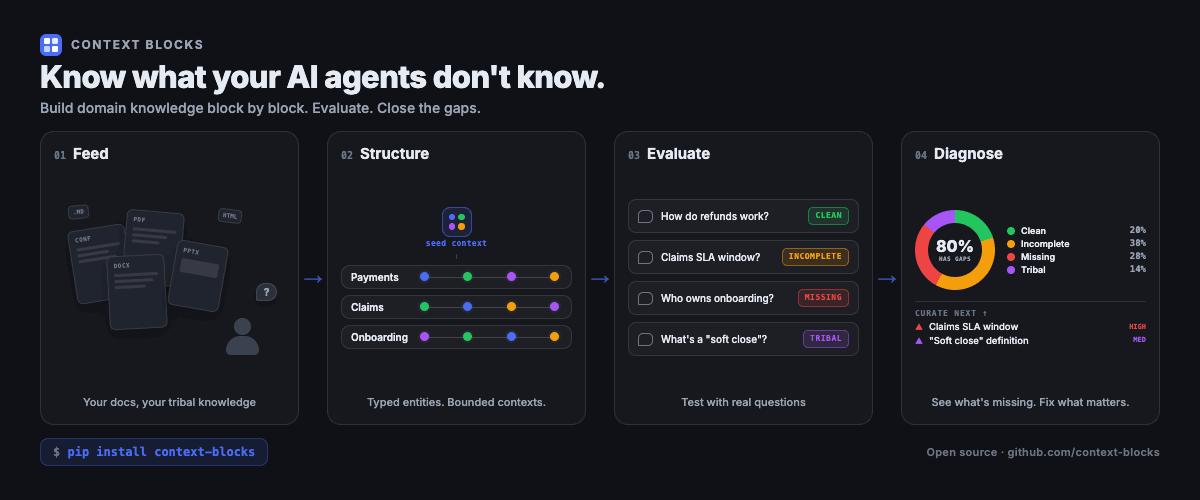
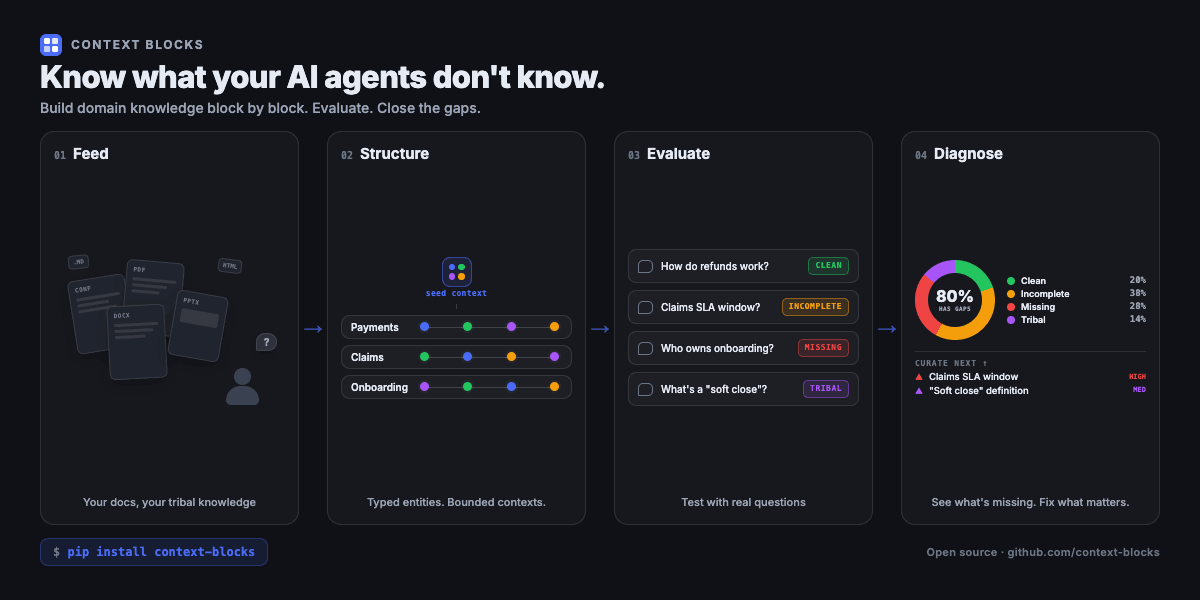
chore: sharpen README copy and fix conference references (#51)
* chore: sharpen README copy and fix conference references

- Sharpen hero tagline and intro sections (stronger positioning)
- Add bounded contexts and per-block ontology to differentiator table
- Add TRIBAL to gap taxonomy in comparison
- Fix research section: AI.Engineer London + CreateWith Brighton
- Add belief statements to Evaluate and Retrieve sections

* chore: make hero image more prominent in README

Move image outside centered div for full container width.
Separate title/badges from image for visual breathing room.

* chore: update hero images with larger versions

---------

diff --git a/README.md b/README.md
@@ -4,18 +4,22 @@
 
 **Know what your AI agents don't know.**
 
+</div>
+
 <picture>
   <source media="(prefers-color-scheme: dark)" srcset="docs/images/context-blocks-hero-dark.png">
   <source media="(prefers-color-scheme: light)" srcset="docs/images/context-blocks-hero-light.png">
   <img alt="Context Blocks — Feed → Structure → Evaluate → Diagnose" src="docs/images/context-blocks-hero-dark.png" width="100%">
 </picture>
 
-<br>
+<div align="center">
 
 [![License: MIT](https://img.shields.io/badge/License-MIT-yellow.svg)](https://opensource.org/licenses/MIT)
 [![Python 3.11+](https://img.shields.io/badge/python-3.11+-blue.svg)](https://www.python.org/downloads/)
 
-**18 entity types · 6 knowledge layers · 55 relationship types · gap detection built in**
+**18 entity types · 6 knowledge layers · 55 relationship types · gap detection first-class, not an afterthought**
+
+*Every other tool extracts what's there. Context Blocks measures what's not there.*
 
 </div>
 
@@ -23,23 +27,24 @@
 
 ## What is Context Blocks?
 
-Context Blocks reads your company's documentation and builds a typed, structured knowledge base — systems, processes, teams, APIs, business rules, jargon, decisions. Then it evaluates that knowledge base from multiple perspectives (developer, architect, product owner, new joiner) and tells you exactly where the gaps are.
+Context Blocks turns your existing documentation into a typed, layered knowledge base — systems, processes, teams, APIs, business rules, jargon, and decisions. Then it does what standard RAG can't: it stress-tests that knowledge from the point of view of a developer, architect, product owner, and new joiner, and returns a concrete gap report — not a fuzzy "it kind of works."
 
-Every other tool in this space extracts what's there. Context Blocks measures what's *not* there.
+It can tell you *"this KB is 60% complete for a developer, 20% for an architect"* rather than just retrieving more text.
 
-**The gap is the product.** Every unanswered question becomes a curation target.
+**The gap is the product.** Every unanswered question becomes an explicit curation target with a type, severity, and remediation path — not just "LLM couldn't answer."
 
-Outputs [OKF-compatible](https://github.com/google/open-knowledge-format) knowledge bases — directories of Markdown files with YAML frontmatter that any agent, Obsidian vault, or LLM can read directly. No vendor lock-in, no proprietary format.
+Outputs [OKF-compatible](https://github.com/google/open-knowledge-format) knowledge bases — directories of Markdown files with YAML frontmatter that any agent, Obsidian vault, or LLM can read directly. No vendor lock-in — because pre-trained agents already understand Markdown + YAML. You shouldn't have to negotiate a proprietary format to see your own knowledge.
 
 ## What makes this different
 
 | | Context Blocks | Typical knowledge tools |
 |---|---|---|
-| **Gap detection** | Scores every question as CLEAN / INCOMPLETE / MISSING | Extract what's there, hope it's enough |
-| **Typed ontology** | 18 entity types constrained by a meta-model | Freeform nodes or generic "entity" |
+| **Bounded contexts** | Knowledge organized into independent blocks — each with its own ontology, entities, and eval scope | One monolithic graph or index |
+| **Gap detection** | Scores every question as CLEAN / INCOMPLETE / MISSING / TRIBAL | Extract what's there, hope it's enough |
+| **Per-block ontology** | Each block gets its own meta-model — payments block and compliance block have different entity types | One-size-fits-all schema or no schema |
+| **Typed ontology** | 18 entity types constrained by a meta-model, organized in 6 knowledge layers | Freeform nodes or generic "entity" |
 | **Persona evaluation** | "60% complete for a developer, 20% for an architect" | No evaluation at all |
-| **Knowledge layers** | Structural · Behavioral · Reference · Organizational · Language · Decision | Flat graph |
-| **Research-backed** | Built on DDC methodology with published empirical findings | No theoretical foundation |
+| **Research-backed** | Built on DDC methodology with empirical evidence that demand-driven curation lifts agent quality | No theoretical foundation |
 
 ## Quick Start
 
@@ -95,7 +100,7 @@ export CB_BLOCK=payments
 
 ### Evaluate
 
-Generate questions from four sources, measure how well the KB answers them:
+Most tools stop at "search works." **Eval is where Context Blocks starts.** Generate questions from four sources and measure how well the KB actually answers them:
 
 | Source | What it tests |
 |---|---|
@@ -106,7 +111,7 @@ Generate questions from four sources, measure how well the KB answers them:
 
 ### Retrieve (DAR Pipeline)
 
-Ask questions against your KB with Domain-Aware Retrieval:
+Ask questions against your KB with Domain-Aware Retrieval — the same typed retrieval pipeline that backs the DCR paper, productionized and exposed via CLI and MCP:
 
 - Typed intent classification — knows if you're asking about a process, system, or relationship
 - Parallel search — vector + keyword + typed graph traversal
@@ -274,10 +279,12 @@ Customize eval personas in `context_blocks/config/persona-templates.yaml`. Entit
 
 ## Research
 
-Built on the Demand-Driven Context (DDC) methodology.
+Built on the Demand-Driven Context (DDC) methodology — empirical evidence that demand-driven curation lifts agent quality where adding more documents alone doesn't.
 
 - **Paper**: [arxiv.org/abs/2603.14057](https://arxiv.org/abs/2603.14057)
-- **Conference**: CreateWith London 2026
+- **Talks**:
+  - [AI.Engineer London 2026](https://www.youtube.com/watch?v=_QAVExf_1uw) — "Demand-Driven Context for AI Agents"
+  - CreateWith Brighton 2026 — "Demand-Driven Context for AI Agents" (video coming soon)
 
 ## License
 
